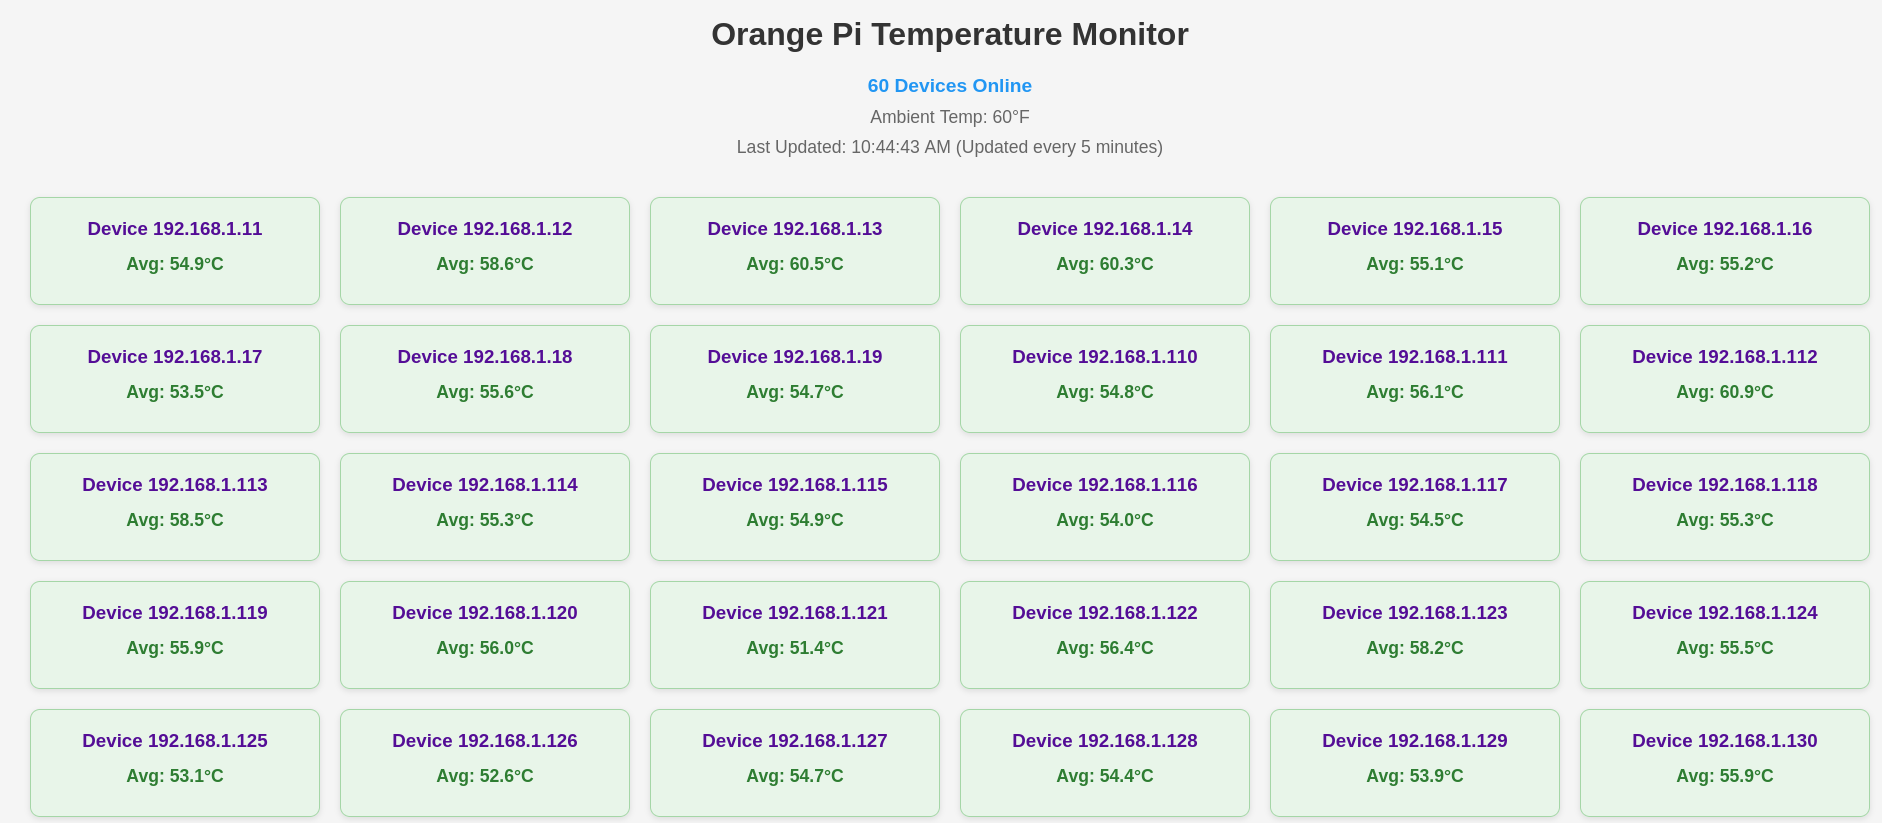
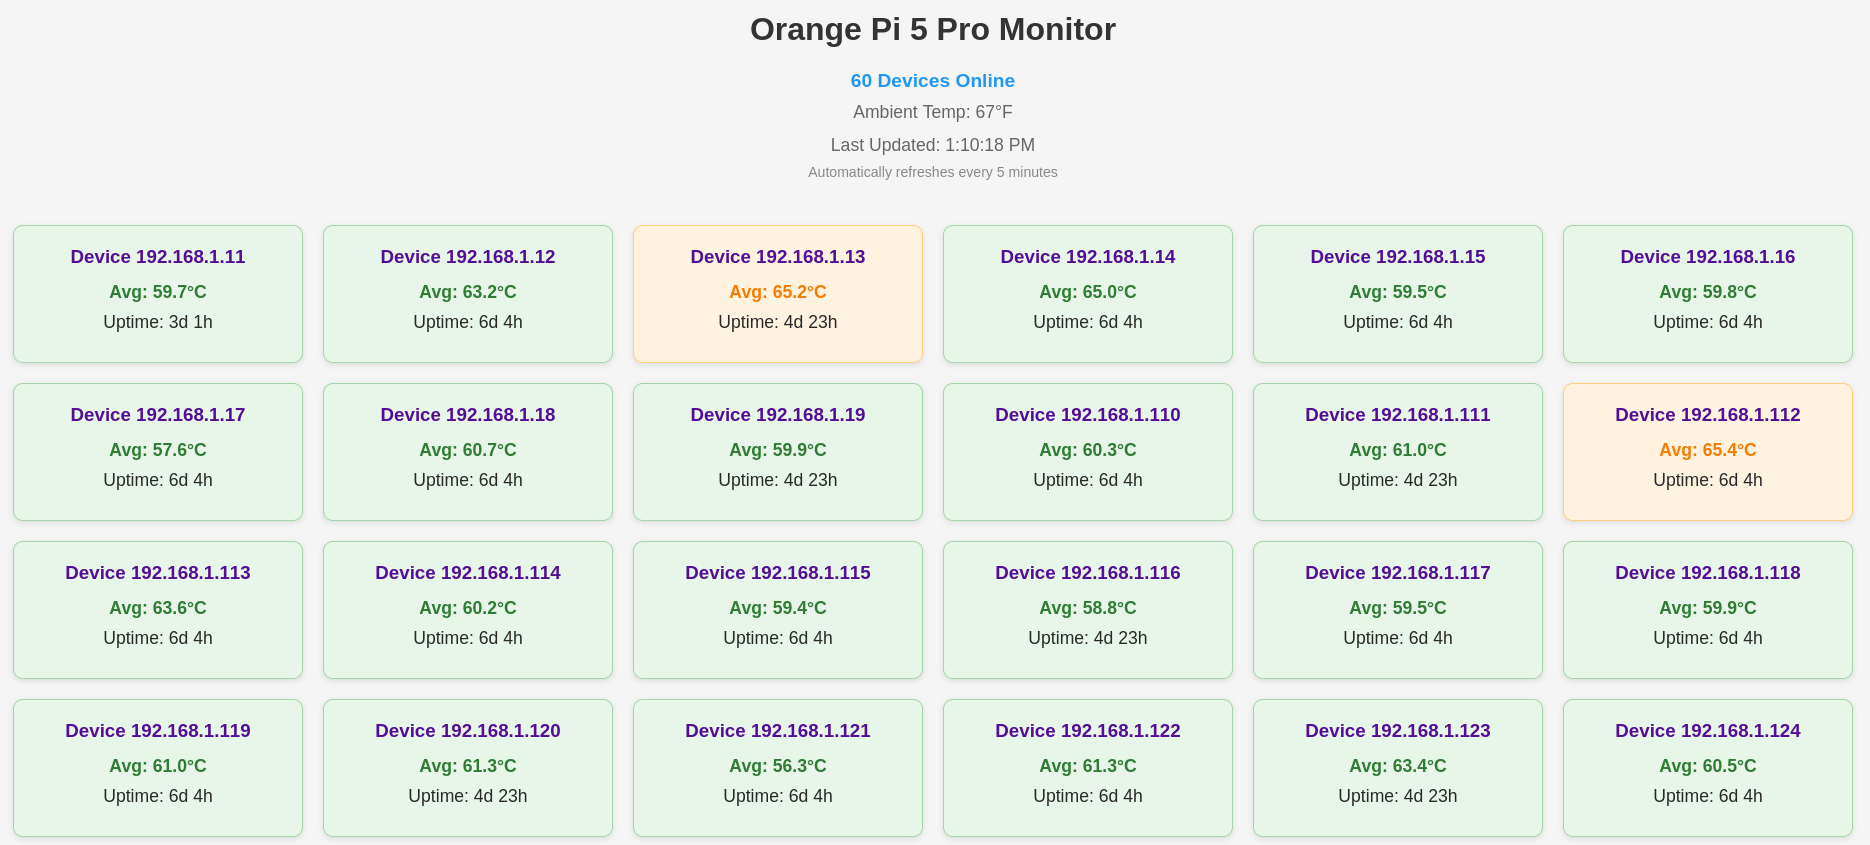
cosmetics

diff --git a/server.js b/server.js
@@ -9,7 +9,7 @@ const path = require('path');
 
 // Server configuration
 const port = 3000;
-const serverIp = 'localhost';
+const serverIp = '0.0.0.0';  // Changed from 'localhost' to '0.0.0.0'
 
 // Application configuration
 const defaultZip = '90210';
@@ -29,6 +29,16 @@ const networkConfig = {
         end: '192.168.3.254'
     }
 };
+
+// Add this after the network configuration section
+function getTimestamp() {
+    return new Date().toLocaleTimeString('en-US', {
+        hour: '2-digit',
+        minute: '2-digit',
+        second: '2-digit',
+        hour12: true
+    });
+}
 
 // Storage
 const devices = new Map();
@@ -67,7 +77,7 @@ async function scanNetwork() {
             banner: true
         };
 
-        console.log(`Scanning range: ${networkConfig.scanRange.start} to ${networkConfig.scanRange.end}`);
+        console.log(`[${getTimestamp()}] Scanning range: ${networkConfig.scanRange.start} to ${networkConfig.scanRange.end}`);
 
         const scanner = new Evilscan(options);
 
@@ -97,13 +107,13 @@ async function scanNetwork() {
                     }
                     ssh.dispose();
                 } catch (error) {
-                    console.log(`Failed to connect to ${data.ip}: ${error.message}`);
+                    console.log(`[${getTimestamp()}] Failed to connect to ${data.ip}: ${error.message}`);
                 }
             }
         });
 
         scanner.on('error', (err) => {
-            console.error('Scanner error:', err);
+            console.error(`[${getTimestamp()}] Scanner error:`, err);
         });
 
         scanner.on('done', () => {
@@ -133,7 +143,7 @@ async function getWeatherData() {
         const lat = geocodeData[0].lat;
         const long = geocodeData[0].lon;
 
-        console.log(`Geocoded ${defaultZip} to: ${lat},${long}`);
+        console.log(`[${getTimestamp()}] Geocoded ${defaultZip} to: ${lat},${long}`);
 
         // Rest of weather fetching
         const pointsResponse = await fetch(`https://api.weather.gov/points/${lat},${long}`);
@@ -157,7 +167,7 @@ async function getWeatherData() {
 
         return weatherCache;
     } catch (error) {
-        console.error('Weather fetch failed:', error.message);
+        console.error(`[${getTimestamp()}] Weather fetch failed:`, error.message);
         return weatherCache || { temp: null, lastUpdate: null };
     }
 }
@@ -185,15 +195,15 @@ app.get('/api/config', (req, res) => {
 // Update the scan interval handler to handle promises
 setInterval(() => {
     scanNetwork().catch(err => {
-        console.error('Scan failed:', err);
+        console.error(`[${getTimestamp()}] Scan failed:`, err);
     });
 }, refreshInterval);
 
 // Initial scan
 scanNetwork().catch(err => {
-    console.error('Initial scan failed:', err);
+    console.error(`[${getTimestamp()}] Initial scan failed:`, err);
 });
 
 app.listen(port, serverIp, () => {
-    console.log(`Server running at http://${serverIp}:${port}`);
+    console.log(`[${getTimestamp()}] Server running at http://${serverIp}:${port}`);
 });

diff --git a/public/index.html b/public/index.html
@@ -1,7 +1,7 @@
 <!DOCTYPE html>
 <html>
 <head>
-    <title>Orange Pi Temperature Monitor</title>
+    <title>Orange Pi 5 Pro Monitor</title>
     <style>
         body {
             font-family: Arial, sans-serif;
@@ -71,6 +71,11 @@
             color: #666;
             margin-bottom: 20px;
             font-size: 1.1em;
+            line-height: 1.5;
+        }
+        .refresh-note {
+            font-size: 0.8em;
+            color: #888;
         }
         .device-count {
             text-align: center;
@@ -105,7 +110,7 @@
     </style>
 </head>
 <body>
-    <h1>Orange Pi Temperature Monitor</h1>
+    <h1>Orange Pi 5 Pro Monitor</h1>
     <div id="loading">Loading device data...</div>
     <div id="content" class="hidden">
         <div id="deviceCount" class="device-count"></div>
@@ -185,7 +190,8 @@
                     
                     // Update the last update time once
                     const lastUpdate = new Date().toLocaleTimeString();
-                    document.getElementById('lastUpdate').textContent = `Last Updated: ${lastUpdate}  (Updated every 5 minutes)`;
+                    document.getElementById('lastUpdate').innerHTML = 
+                        `Last Updated: ${lastUpdate}<br><span class="refresh-note">Automatically refreshes every 5 minutes</span>`;
                     
                     // Sort devices by IP
                     devices.sort(compareIPs).forEach(device => {
